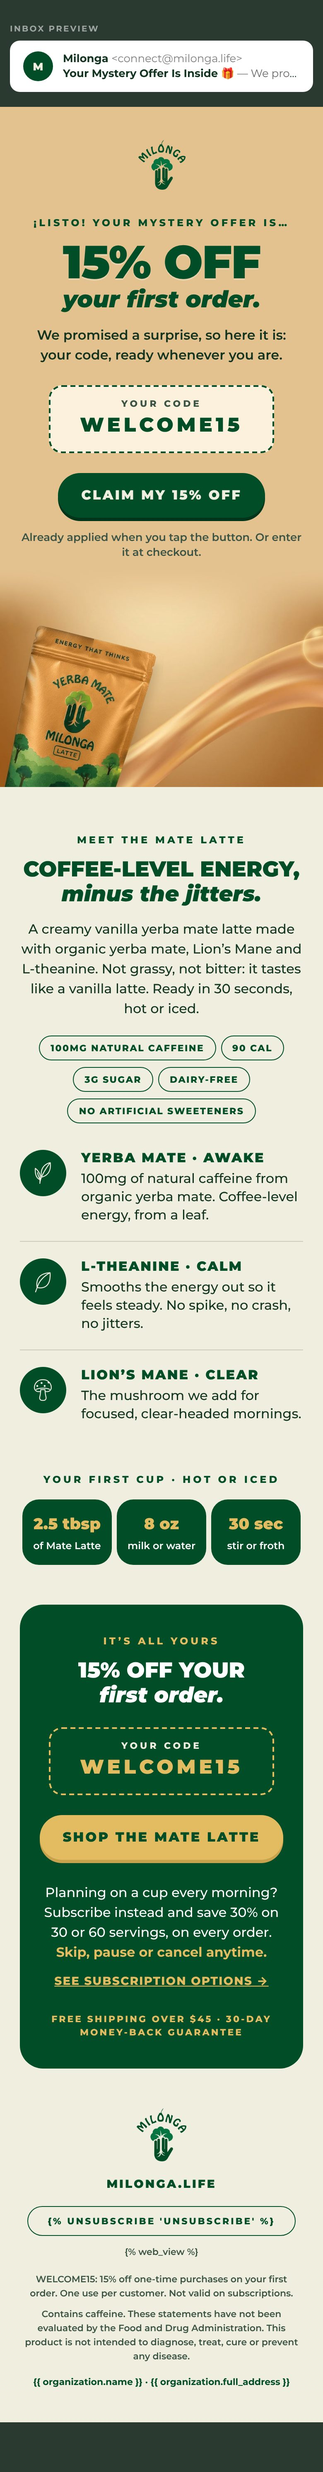
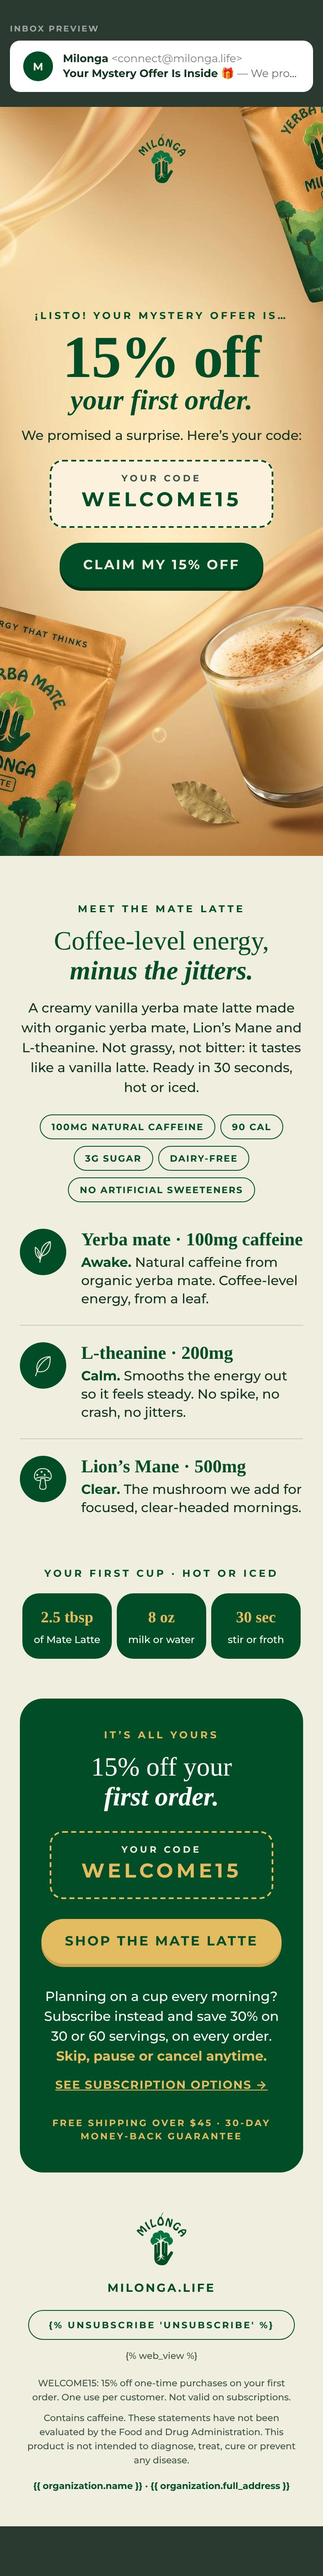
Welcome flow E1: hero background on Klaviyo's CDN, README and renders updated
Claude-Session: https://claude.ai/code/session_01NhEtXPnfeCJfN73SqBkUZ5

diff --git a/email-ds/exports/klaviyo/welcome-e1/welcome-e1.html b/email-ds/exports/klaviyo/welcome-e1/welcome-e1.html
@@ -5,7 +5,7 @@
   Paste the whole file into one Klaviyo HTML block.
 -->
 <style>
-  @import url('https://fonts.googleapis.com/css2?family=Montserrat:ital,wght@0,500;0,600;0,800;0,900;1,800;1,900&display=swap');
+  @import url('https://fonts.googleapis.com/css2?family=Montserrat:wght@500;700&display=swap');
   table { border-collapse:collapse; }
   img { -ms-interpolation-mode:bicubic; }
   a { color:inherit; }
@@ -14,9 +14,10 @@
   @media only screen and (max-width:480px) {
     .wrap { width:100% !important; }
     .pad { padding-left:24px !important; padding-right:24px !important; }
-    .h-hero { font-size:56px !important; line-height:54px !important; }
-    .h-turn { font-size:28px !important; line-height:32px !important; }
-    .h-sec { font-size:26px !important; line-height:30px !important; }
+    .h-hero { font-size:72px !important; line-height:68px !important; }
+    .h-turn { font-size:34px !important; line-height:38px !important; }
+    .h-sec { font-size:32px !important; line-height:36px !important; }
+    .hero-in { padding-left:20px !important; padding-right:20px !important; }
     .code { font-size:24px !important; letter-spacing:4px !important; }
     .btn { padding:19px 28px !important; }
     .card { padding:36px 22px !important; }
@@ -25,7 +26,7 @@
     .step-cap { font-size:12px !important; line-height:15px !important; }
   }
   @media (prefers-color-scheme: dark) {
-    .bg-hero { background-color:#E4C28F !important; }
+    .bg-hero { background-color:#F2D9A6 !important; }
     .bg-page { background-color:#F0EFDF !important; }
     .bg-card { background-color:#004D27 !important; }
   }
@@ -35,31 +36,34 @@
 <table role="presentation" class="wrap" width="600" cellpadding="0" cellspacing="0" border="0" style="width:600px;max-width:600px;">
 
 <!-- ── 1 · THE REVEAL (gold silk, forest type) ───────────────────────── -->
-<tr><td class="pad bg-hero" align="center" bgcolor="#E4C28F" style="background-color:#E4C28F;padding:40px 40px 0;font-family:'Montserrat','Helvetica Neue',Helvetica,Arial,sans-serif;color:#004D27;">
+<tr><td class="bg-hero" align="center" valign="top" height="904" background="https://cdn.klaviyomail.com/company/TwvSnK/images/77f8ca1f-1973-4ad8-a8bd-2133aa45e3c2.jpeg" bgcolor="#F2D9A6" style="height:904px;background-color:#F2D9A6;background-image:url('https://cdn.klaviyomail.com/company/TwvSnK/images/77f8ca1f-1973-4ad8-a8bd-2133aa45e3c2.jpeg');background-size:cover;background-position:center top;background-repeat:no-repeat;padding:0;">
+<!--[if gte mso 9]><v:rect xmlns:v="urn:schemas-microsoft-com:vml" fill="true" stroke="false" style="width:600px;height:904px;"><v:fill type="frame" src="https://cdn.klaviyomail.com/company/TwvSnK/images/77f8ca1f-1973-4ad8-a8bd-2133aa45e3c2.jpeg" color="#F2D9A6" /><v:textbox inset="0,0,0,0"><![endif]-->
+<div class="hero-in" style="padding:32px 40px 0;font-family:'Montserrat','Helvetica Neue',Helvetica,Arial,sans-serif;color:#004D27;text-align:center;">
 <a href="https://milonga.life/?utm_source=klaviyo&amp;utm_medium=email&amp;utm_campaign=welcome_mystery_offer&amp;utm_content=e1_logo" target="_blank"><img src="https://cdn.klaviyomail.com/company/TwvSnK/images/b6a03046-605a-4e87-b22f-a530be1633e3.png" width="57" height="60" alt="Milonga" style="display:block;margin:0 auto;width:57px;height:60px;border:0;"></a>
-<div style="padding-top:32px;font-size:12px;line-height:16px;font-weight:800;letter-spacing:3px;text-transform:uppercase;color:#004D27;">&iexcl;Listo! Your mystery offer is&hellip;</div>
-<div class="h-hero" style="padding-top:12px;font-size:72px;line-height:68px;font-weight:900;letter-spacing:-1px;text-transform:uppercase;color:#004D27;text-shadow:0 2px 0 rgba(255,255,255,.25);">15% off</div>
-<div class="h-turn" style="padding-top:2px;font-size:32px;line-height:38px;font-weight:900;font-style:italic;color:#004D27;">your first order.</div>
-<div style="padding:16px 0 24px;font-size:16px;line-height:24px;font-weight:600;color:#12331F;">We promised a surprise, so here it is: your code, ready whenever you&nbsp;are.</div>
+<div style="height:152px;line-height:152px;font-size:0;">&nbsp;</div>
+<div style="font-size:12px;line-height:16px;font-weight:700;letter-spacing:3px;text-transform:uppercase;color:#004D27;">&iexcl;Listo! Your mystery offer is&hellip;</div>
+<div class="h-hero" style="padding-top:8px;font-family:'Times New Roman',Times,Georgia,serif;font-size:84px;line-height:78px;font-weight:700;letter-spacing:-1px;color:#004D27;">15% off</div>
+<div class="h-turn" style="font-family:'Times New Roman',Times,Georgia,serif;font-size:38px;line-height:44px;font-weight:700;font-style:italic;color:#004D27;">your first order.</div>
+<div style="padding:12px 0 18px;font-size:16px;line-height:22px;font-weight:500;color:#12331F;">We promised a surprise. Here&rsquo;s your&nbsp;code:</div>
 <table role="presentation" cellpadding="0" cellspacing="0" border="0" align="center" style="margin:0 auto;border-collapse:separate;"><tr>
 <td align="center" bgcolor="#FBF1DC" style="background-color:#FBF1DC;border:2px dashed #004D27;border-radius:16px;padding:12px 36px 14px;font-family:'Montserrat','Helvetica Neue',Helvetica,Arial,sans-serif;">
-<div style="font-size:11px;line-height:16px;font-weight:800;letter-spacing:3px;text-transform:uppercase;color:#3B5344;">Your code</div>
-<div class="code" style="font-size:30px;line-height:36px;font-weight:900;letter-spacing:6px;color:#004D27;">WELCOME15</div>
+<div style="font-size:11px;line-height:16px;font-weight:700;letter-spacing:3px;text-transform:uppercase;color:#3B5344;">Your code</div>
+<div class="code" style="font-size:30px;line-height:36px;font-weight:700;letter-spacing:6px;color:#004D27;">WELCOME15</div>
 </td></tr></table>
-<div style="padding-top:24px;"><!--[if mso]>
+<div style="padding-top:18px;"><!--[if mso]>
 <v:roundrect xmlns:v="urn:schemas-microsoft-com:vml" xmlns:w="urn:schemas-microsoft-com:office:word" href="https://milonga.life/discount/WELCOME15?redirect=%2Fproducts%2Fthe-original-mate-latte&amp;utm_source=klaviyo&amp;utm_medium=email&amp;utm_campaign=welcome_mystery_offer&amp;utm_content=e1_hero_button" style="height:56px;v-text-anchor:middle;width:300px;" arcsize="50%" stroke="f" fillcolor="#004D27"><w:anchorlock/><center style="color:#F0EFDF;font-family:Arial,sans-serif;font-size:16px;font-weight:bold;letter-spacing:2px;">Claim my 15% off</center></v:roundrect>
-<![endif]--><!--[if !mso]><!-- --><a href="https://milonga.life/discount/WELCOME15?redirect=%2Fproducts%2Fthe-original-mate-latte&amp;utm_source=klaviyo&amp;utm_medium=email&amp;utm_campaign=welcome_mystery_offer&amp;utm_content=e1_hero_button" target="_blank" class="btn" style="display:inline-block;background-color:#004D27;border-radius:999px;padding:20px 40px;font-family:'Montserrat','Helvetica Neue',Helvetica,Arial,sans-serif;font-size:16px;line-height:16px;font-weight:900;letter-spacing:2px;text-transform:uppercase;color:#F0EFDF;text-decoration:none;box-shadow:0 4px 0 #00351B;">Claim my 15% off</a><!--<![endif]--></div>
-<div style="padding-top:14px;font-size:13px;line-height:18px;font-weight:600;color:#3B5344;">Already applied when you tap the button. Or enter it at checkout.</div>
+<![endif]--><!--[if !mso]><!-- --><a href="https://milonga.life/discount/WELCOME15?redirect=%2Fproducts%2Fthe-original-mate-latte&amp;utm_source=klaviyo&amp;utm_medium=email&amp;utm_campaign=welcome_mystery_offer&amp;utm_content=e1_hero_button" target="_blank" class="btn" style="display:inline-block;background-color:#004D27;border-radius:999px;padding:20px 40px;font-family:'Montserrat','Helvetica Neue',Helvetica,Arial,sans-serif;font-size:16px;line-height:16px;font-weight:700;letter-spacing:2px;text-transform:uppercase;color:#F0EFDF;text-decoration:none;box-shadow:0 4px 0 #00351B;">Claim my 15% off</a><!--<![endif]--></div>
+</div>
+<!--[if gte mso 9]></v:textbox></v:rect><![endif]-->
 </td></tr>
-<tr><td class="bg-hero" bgcolor="#E4C28F" style="background-color:#E4C28F;padding:8px 0 0;font-size:0;line-height:0;"><a href="https://milonga.life/discount/WELCOME15?redirect=%2Fproducts%2Fthe-original-mate-latte&amp;utm_source=klaviyo&amp;utm_medium=email&amp;utm_campaign=welcome_mystery_offer&amp;utm_content=e1_hero_image" target="_blank"><img src="https://cdn.klaviyomail.com/company/TwvSnK/images/4a392523-8fed-4278-bf4b-9b27664f2c6b.jpeg" width="600" alt="A pouch of Milonga Mate Latte on swirls of gold silk." style="display:block;width:100%;max-width:600px;height:auto;border:0;"></a></td></tr>
 
 <!-- ── 2 · WHAT YOU JUST UNLOCKED (beige, forest type) ──────────────── -->
 <tr><td class="pad bg-page" align="center" bgcolor="#F0EFDF" style="background-color:#F0EFDF;padding:56px 48px 0;font-family:'Montserrat','Helvetica Neue',Helvetica,Arial,sans-serif;">
-<div style="font-size:12px;line-height:16px;font-weight:800;letter-spacing:3px;text-transform:uppercase;color:#004D27;">Meet the Mate Latte</div>
-<div class="h-sec" style="padding-top:12px;font-size:32px;line-height:36px;font-weight:900;text-transform:uppercase;color:#004D27;">Coffee-level energy,</div>
-<div class="h-sec" style="font-size:32px;line-height:36px;font-weight:900;font-style:italic;color:#004D27;">minus the jitters.</div>
+<div style="font-size:12px;line-height:16px;font-weight:700;letter-spacing:3px;text-transform:uppercase;color:#004D27;">Meet the Mate Latte</div>
+<div class="h-sec" style="padding-top:12px;font-family:'Times New Roman',Times,Georgia,serif;font-size:40px;line-height:44px;font-weight:400;color:#004D27;">Coffee-level energy,</div>
+<div class="h-sec" style="font-family:'Times New Roman',Times,Georgia,serif;font-size:40px;line-height:44px;font-weight:700;font-style:italic;color:#004D27;">minus the jitters.</div>
 <div style="padding-top:16px;font-size:16px;line-height:24px;font-weight:500;color:#12331F;">A creamy vanilla yerba mate latte made with organic yerba mate, Lion&rsquo;s Mane and L-theanine. Not grassy, not bitter: it tastes like a vanilla latte. Ready in 30 seconds, hot or&nbsp;iced.</div>
-<div style="padding-top:20px;font-size:0;line-height:0;"><span style="display:inline-block;margin:0 3px 8px;border:1.5px solid #004D27;border-radius:999px;padding:7px 13px;font-family:'Montserrat','Helvetica Neue',Helvetica,Arial,sans-serif;font-size:11px;line-height:14px;font-weight:800;letter-spacing:1.2px;text-transform:uppercase;color:#004D27;white-space:nowrap;">100mg natural caffeine</span><span style="display:inline-block;margin:0 3px 8px;border:1.5px solid #004D27;border-radius:999px;padding:7px 13px;font-family:'Montserrat','Helvetica Neue',Helvetica,Arial,sans-serif;font-size:11px;line-height:14px;font-weight:800;letter-spacing:1.2px;text-transform:uppercase;color:#004D27;white-space:nowrap;">90 cal</span><span style="display:inline-block;margin:0 3px 8px;border:1.5px solid #004D27;border-radius:999px;padding:7px 13px;font-family:'Montserrat','Helvetica Neue',Helvetica,Arial,sans-serif;font-size:11px;line-height:14px;font-weight:800;letter-spacing:1.2px;text-transform:uppercase;color:#004D27;white-space:nowrap;">3g sugar</span><span style="display:inline-block;margin:0 3px 8px;border:1.5px solid #004D27;border-radius:999px;padding:7px 13px;font-family:'Montserrat','Helvetica Neue',Helvetica,Arial,sans-serif;font-size:11px;line-height:14px;font-weight:800;letter-spacing:1.2px;text-transform:uppercase;color:#004D27;white-space:nowrap;">Dairy-free</span><span style="display:inline-block;margin:0 3px 8px;border:1.5px solid #004D27;border-radius:999px;padding:7px 13px;font-family:'Montserrat','Helvetica Neue',Helvetica,Arial,sans-serif;font-size:11px;line-height:14px;font-weight:800;letter-spacing:1.2px;text-transform:uppercase;color:#004D27;white-space:nowrap;">No artificial sweeteners</span></div>
+<div style="padding-top:20px;font-size:0;line-height:0;"><span style="display:inline-block;margin:0 3px 8px;border:1.5px solid #004D27;border-radius:999px;padding:7px 13px;font-family:'Montserrat','Helvetica Neue',Helvetica,Arial,sans-serif;font-size:11px;line-height:14px;font-weight:700;letter-spacing:1.2px;text-transform:uppercase;color:#004D27;white-space:nowrap;">100mg natural caffeine</span><span style="display:inline-block;margin:0 3px 8px;border:1.5px solid #004D27;border-radius:999px;padding:7px 13px;font-family:'Montserrat','Helvetica Neue',Helvetica,Arial,sans-serif;font-size:11px;line-height:14px;font-weight:700;letter-spacing:1.2px;text-transform:uppercase;color:#004D27;white-space:nowrap;">90 cal</span><span style="display:inline-block;margin:0 3px 8px;border:1.5px solid #004D27;border-radius:999px;padding:7px 13px;font-family:'Montserrat','Helvetica Neue',Helvetica,Arial,sans-serif;font-size:11px;line-height:14px;font-weight:700;letter-spacing:1.2px;text-transform:uppercase;color:#004D27;white-space:nowrap;">3g sugar</span><span style="display:inline-block;margin:0 3px 8px;border:1.5px solid #004D27;border-radius:999px;padding:7px 13px;font-family:'Montserrat','Helvetica Neue',Helvetica,Arial,sans-serif;font-size:11px;line-height:14px;font-weight:700;letter-spacing:1.2px;text-transform:uppercase;color:#004D27;white-space:nowrap;">Dairy-free</span><span style="display:inline-block;margin:0 3px 8px;border:1.5px solid #004D27;border-radius:999px;padding:7px 13px;font-family:'Montserrat','Helvetica Neue',Helvetica,Arial,sans-serif;font-size:11px;line-height:14px;font-weight:700;letter-spacing:1.2px;text-transform:uppercase;color:#004D27;white-space:nowrap;">No artificial sweeteners</span></div>
 </td></tr>
 <tr><td class="pad bg-page" bgcolor="#F0EFDF" style="background-color:#F0EFDF;padding:24px 48px 0;">
 <table role="presentation" width="100%" cellpadding="0" cellspacing="0" border="0">
@@ -67,24 +71,24 @@
 <table role="presentation" width="100%" cellpadding="0" cellspacing="0" border="0"><tr>
 <td width="56" valign="top" style="width:56px;"><img src="https://cdn.klaviyomail.com/company/TwvSnK/images/d6e41362-a8e8-4641-ab29-ffc4bff9a072.png" width="56" height="56" alt="Yerba mate" style="display:block;width:56px;height:56px;border:0;"></td>
 <td valign="middle" style="padding-left:18px;font-family:'Montserrat','Helvetica Neue',Helvetica,Arial,sans-serif;">
-<div style="font-size:16px;line-height:20px;font-weight:900;letter-spacing:1.5px;text-transform:uppercase;color:#004D27;">Yerba mate · Awake</div>
-<div style="padding-top:4px;font-size:16px;line-height:22px;font-weight:500;color:#12331F;">100mg of natural caffeine from organic yerba mate. Coffee-level energy, from a&nbsp;leaf.</div>
+<div style="font-family:'Times New Roman',Times,Georgia,serif;font-size:22px;line-height:26px;font-weight:700;color:#004D27;">Yerba mate · 100mg caffeine</div>
+<div style="padding-top:4px;font-size:16px;line-height:22px;font-weight:500;color:#12331F;"><strong style="font-weight:700;color:#004D27;">Awake.</strong> Natural caffeine from organic yerba mate. Coffee-level energy, from a&nbsp;leaf.</div>
 </td></tr></table>
 </td></tr>
 <tr><td style="padding:20px 0 20px;border-bottom:1px solid #CFCDB8;">
 <table role="presentation" width="100%" cellpadding="0" cellspacing="0" border="0"><tr>
 <td width="56" valign="top" style="width:56px;"><img src="https://cdn.klaviyomail.com/company/TwvSnK/images/c3c9bcd8-65f0-4e23-a653-fb47cf9fbecf.png" width="56" height="56" alt="L-theanine" style="display:block;width:56px;height:56px;border:0;"></td>
 <td valign="middle" style="padding-left:18px;font-family:'Montserrat','Helvetica Neue',Helvetica,Arial,sans-serif;">
-<div style="font-size:16px;line-height:20px;font-weight:900;letter-spacing:1.5px;text-transform:uppercase;color:#004D27;">L-theanine · Calm</div>
-<div style="padding-top:4px;font-size:16px;line-height:22px;font-weight:500;color:#12331F;">Smooths the energy out so it feels steady. No spike, no crash, no&nbsp;jitters.</div>
+<div style="font-family:'Times New Roman',Times,Georgia,serif;font-size:22px;line-height:26px;font-weight:700;color:#004D27;">L-theanine · 200mg</div>
+<div style="padding-top:4px;font-size:16px;line-height:22px;font-weight:500;color:#12331F;"><strong style="font-weight:700;color:#004D27;">Calm.</strong> Smooths the energy out so it feels steady. No spike, no crash, no&nbsp;jitters.</div>
 </td></tr></table>
 </td></tr>
 <tr><td style="padding:20px 0 20px;">
 <table role="presentation" width="100%" cellpadding="0" cellspacing="0" border="0"><tr>
 <td width="56" valign="top" style="width:56px;"><img src="https://cdn.klaviyomail.com/company/TwvSnK/images/25003d52-2d57-422f-8a7f-84335a8de13b.png" width="56" height="56" alt="Lion&rsquo;s Mane" style="display:block;width:56px;height:56px;border:0;"></td>
 <td valign="middle" style="padding-left:18px;font-family:'Montserrat','Helvetica Neue',Helvetica,Arial,sans-serif;">
-<div style="font-size:16px;line-height:20px;font-weight:900;letter-spacing:1.5px;text-transform:uppercase;color:#004D27;">Lion&rsquo;s Mane · Clear</div>
-<div style="padding-top:4px;font-size:16px;line-height:22px;font-weight:500;color:#12331F;">The mushroom we add for focused, clear-headed&nbsp;mornings.</div>
+<div style="font-family:'Times New Roman',Times,Georgia,serif;font-size:22px;line-height:26px;font-weight:700;color:#004D27;">Lion&rsquo;s Mane · 500mg</div>
+<div style="padding-top:4px;font-size:16px;line-height:22px;font-weight:500;color:#12331F;"><strong style="font-weight:700;color:#004D27;">Clear.</strong> The mushroom we add for focused, clear-headed&nbsp;mornings.</div>
 </td></tr></table>
 </td></tr>
 </table>
@@ -92,22 +96,22 @@
 
 <!-- your first cup: 8 oz, always -->
 <tr><td class="pad bg-page" align="center" bgcolor="#F0EFDF" style="background-color:#F0EFDF;padding:40px 40px 0;font-family:'Montserrat','Helvetica Neue',Helvetica,Arial,sans-serif;">
-<div style="font-size:12px;line-height:16px;font-weight:800;letter-spacing:3px;text-transform:uppercase;color:#004D27;">Your first cup &middot; hot or iced</div>
+<div style="font-size:12px;line-height:16px;font-weight:700;letter-spacing:3px;text-transform:uppercase;color:#004D27;">Your first cup &middot; hot or iced</div>
 <div style="padding:16px 0 0;"><table role="presentation" width="100%" cellpadding="0" cellspacing="0" border="0"><tr>
 <td class="step" width="33%" valign="top" align="center" style="width:33%;padding:0 0px;">
 <table role="presentation" width="100%" cellpadding="0" cellspacing="0" border="0"><tr><td align="center" bgcolor="#004D27" style="background-color:#004D27;border-radius:20px;padding:18px 8px 16px;font-family:'Montserrat','Helvetica Neue',Helvetica,Arial,sans-serif;">
-<div class="step-big" style="font-size:26px;line-height:32px;font-weight:900;color:#E3BC62;white-space:nowrap;">2.5 tbsp</div>
-<div class="step-cap" style="padding-top:6px;font-size:13px;line-height:17px;font-weight:600;color:#FFFFFF;">of Mate Latte</div>
+<div class="step-big" style="font-family:'Times New Roman',Times,Georgia,serif;font-size:30px;line-height:34px;font-weight:700;color:#E3BC62;white-space:nowrap;">2.5 tbsp</div>
+<div class="step-cap" style="padding-top:6px;font-size:13px;line-height:17px;font-weight:500;color:#FFFFFF;">of Mate Latte</div>
 </td></tr></table></td>
 <td class="step" width="33%" valign="top" align="center" style="width:33%;padding:0 6px;">
 <table role="presentation" width="100%" cellpadding="0" cellspacing="0" border="0"><tr><td align="center" bgcolor="#004D27" style="background-color:#004D27;border-radius:20px;padding:18px 8px 16px;font-family:'Montserrat','Helvetica Neue',Helvetica,Arial,sans-serif;">
-<div class="step-big" style="font-size:26px;line-height:32px;font-weight:900;color:#E3BC62;white-space:nowrap;">8 oz</div>
-<div class="step-cap" style="padding-top:6px;font-size:13px;line-height:17px;font-weight:600;color:#FFFFFF;">milk or water</div>
+<div class="step-big" style="font-family:'Times New Roman',Times,Georgia,serif;font-size:30px;line-height:34px;font-weight:700;color:#E3BC62;white-space:nowrap;">8 oz</div>
+<div class="step-cap" style="padding-top:6px;font-size:13px;line-height:17px;font-weight:500;color:#FFFFFF;">milk or water</div>
 </td></tr></table></td>
 <td class="step" width="33%" valign="top" align="center" style="width:33%;padding:0 0px;">
 <table role="presentation" width="100%" cellpadding="0" cellspacing="0" border="0"><tr><td align="center" bgcolor="#004D27" style="background-color:#004D27;border-radius:20px;padding:18px 8px 16px;font-family:'Montserrat','Helvetica Neue',Helvetica,Arial,sans-serif;">
-<div class="step-big" style="font-size:26px;line-height:32px;font-weight:900;color:#E3BC62;white-space:nowrap;">30 sec</div>
-<div class="step-cap" style="padding-top:6px;font-size:13px;line-height:17px;font-weight:600;color:#FFFFFF;">stir or froth</div>
+<div class="step-big" style="font-family:'Times New Roman',Times,Georgia,serif;font-size:30px;line-height:34px;font-weight:700;color:#E3BC62;white-space:nowrap;">30 sec</div>
+<div class="step-cap" style="padding-top:6px;font-size:13px;line-height:17px;font-weight:500;color:#FFFFFF;">stir or froth</div>
 </td></tr></table></td>
 </tr></table></div>
 </td></tr>
@@ -116,31 +120,31 @@
 <tr><td class="pad bg-page" bgcolor="#F0EFDF" style="background-color:#F0EFDF;padding:48px 24px 0;">
 <table role="presentation" width="100%" cellpadding="0" cellspacing="0" border="0"><tr>
 <td class="card bg-card" align="center" bgcolor="#004D27" style="background-color:#004D27;border-radius:28px;padding:44px 40px 40px;font-family:'Montserrat','Helvetica Neue',Helvetica,Arial,sans-serif;">
-<div style="font-size:12px;line-height:16px;font-weight:800;letter-spacing:3px;text-transform:uppercase;color:#E3BC62;">It&rsquo;s all yours</div>
-<div class="h-sec" style="padding-top:12px;font-size:32px;line-height:36px;font-weight:900;text-transform:uppercase;color:#FFFFFF;">15% off your</div>
-<div class="h-sec" style="font-size:32px;line-height:36px;font-weight:900;font-style:italic;color:#FFFFFF;">first order.</div>
+<div style="font-size:12px;line-height:16px;font-weight:700;letter-spacing:3px;text-transform:uppercase;color:#E3BC62;">It&rsquo;s all yours</div>
+<div class="h-sec" style="padding-top:12px;font-family:'Times New Roman',Times,Georgia,serif;font-size:40px;line-height:44px;font-weight:400;color:#FFFFFF;">15% off your</div>
+<div class="h-sec" style="font-family:'Times New Roman',Times,Georgia,serif;font-size:40px;line-height:44px;font-weight:700;font-style:italic;color:#FFFFFF;">first order.</div>
 <div style="padding:24px 0;"><table role="presentation" cellpadding="0" cellspacing="0" border="0" align="center" style="margin:0 auto;border-collapse:separate;"><tr>
 <td align="center" bgcolor="#004D27" style="background-color:#004D27;border:2px dashed #E3BC62;border-radius:16px;padding:12px 36px 14px;font-family:'Montserrat','Helvetica Neue',Helvetica,Arial,sans-serif;">
-<div style="font-size:11px;line-height:16px;font-weight:800;letter-spacing:3px;text-transform:uppercase;color:#F0EFDF;">Your code</div>
-<div class="code" style="font-size:30px;line-height:36px;font-weight:900;letter-spacing:6px;color:#E3BC62;">WELCOME15</div>
+<div style="font-size:11px;line-height:16px;font-weight:700;letter-spacing:3px;text-transform:uppercase;color:#F0EFDF;">Your code</div>
+<div class="code" style="font-size:30px;line-height:36px;font-weight:700;letter-spacing:6px;color:#E3BC62;">WELCOME15</div>
 </td></tr></table></div>
 <!--[if mso]>
 <v:roundrect xmlns:v="urn:schemas-microsoft-com:vml" xmlns:w="urn:schemas-microsoft-com:office:word" href="https://milonga.life/discount/WELCOME15?redirect=%2Fproducts%2Fthe-original-mate-latte&amp;utm_source=klaviyo&amp;utm_medium=email&amp;utm_campaign=welcome_mystery_offer&amp;utm_content=e1_closing_button" style="height:56px;v-text-anchor:middle;width:300px;" arcsize="50%" stroke="f" fillcolor="#E3BC62"><w:anchorlock/><center style="color:#004D27;font-family:Arial,sans-serif;font-size:16px;font-weight:bold;letter-spacing:2px;">Shop the Mate Latte</center></v:roundrect>
-<![endif]--><!--[if !mso]><!-- --><a href="https://milonga.life/discount/WELCOME15?redirect=%2Fproducts%2Fthe-original-mate-latte&amp;utm_source=klaviyo&amp;utm_medium=email&amp;utm_campaign=welcome_mystery_offer&amp;utm_content=e1_closing_button" target="_blank" class="btn" style="display:inline-block;background-color:#E3BC62;border-radius:999px;padding:20px 40px;font-family:'Montserrat','Helvetica Neue',Helvetica,Arial,sans-serif;font-size:16px;line-height:16px;font-weight:900;letter-spacing:2px;text-transform:uppercase;color:#004D27;text-decoration:none;box-shadow:0 4px 0 #C9A24E;">Shop the Mate Latte</a><!--<![endif]-->
+<![endif]--><!--[if !mso]><!-- --><a href="https://milonga.life/discount/WELCOME15?redirect=%2Fproducts%2Fthe-original-mate-latte&amp;utm_source=klaviyo&amp;utm_medium=email&amp;utm_campaign=welcome_mystery_offer&amp;utm_content=e1_closing_button" target="_blank" class="btn" style="display:inline-block;background-color:#E3BC62;border-radius:999px;padding:20px 40px;font-family:'Montserrat','Helvetica Neue',Helvetica,Arial,sans-serif;font-size:16px;line-height:16px;font-weight:700;letter-spacing:2px;text-transform:uppercase;color:#004D27;text-decoration:none;box-shadow:0 4px 0 #C9A24E;">Shop the Mate Latte</a><!--<![endif]-->
 <div style="padding-top:28px;font-size:16px;line-height:24px;font-weight:500;color:#FFFFFF;">Planning on a cup every morning? Subscribe instead and save 30% on 30 or 60 servings, on every order. <strong style="color:#E3BC62;">Skip, pause or cancel&nbsp;anytime.</strong></div>
-<div style="padding-top:12px;font-size:14px;line-height:20px;font-weight:800;letter-spacing:1px;text-transform:uppercase;"><a href="https://milonga.life/products/the-original-mate-latte?utm_source=klaviyo&amp;utm_medium=email&amp;utm_campaign=welcome_mystery_offer&amp;utm_content=e1_subscribe_link" target="_blank" style="color:#E3BC62;text-decoration:underline;">See subscription options →</a></div>
-<div style="padding-top:28px;font-size:11px;line-height:16px;font-weight:800;letter-spacing:2px;text-transform:uppercase;color:#E3BC62;">Free shipping over $45 &middot; 30-day money-back guarantee</div>
+<div style="padding-top:12px;font-size:14px;line-height:20px;font-weight:700;letter-spacing:1px;text-transform:uppercase;"><a href="https://milonga.life/products/the-original-mate-latte?utm_source=klaviyo&amp;utm_medium=email&amp;utm_campaign=welcome_mystery_offer&amp;utm_content=e1_subscribe_link" target="_blank" style="color:#E3BC62;text-decoration:underline;">See subscription options →</a></div>
+<div style="padding-top:28px;font-size:11px;line-height:16px;font-weight:700;letter-spacing:2px;text-transform:uppercase;color:#E3BC62;">Free shipping over $45 &middot; 30-day money-back guarantee</div>
 </td></tr></table>
 </td></tr>
 
 <!-- ── FOOTER ─────────────────────────────────────────────────────── -->
 <tr><td class="bg-page" align="center" bgcolor="#F0EFDF" style="background-color:#F0EFDF;padding:48px 30px 40px;font-family:'Montserrat','Helvetica Neue',Helvetica,Arial,sans-serif;color:#004D27;">
 <a href="https://milonga.life/?utm_source=klaviyo&amp;utm_medium=email&amp;utm_campaign=welcome_mystery_offer&amp;utm_content=e1_logo" target="_blank"><img src="https://cdn.klaviyomail.com/company/TwvSnK/images/0e781634-6907-42f6-b101-3c2c15371a99.png" width="61" height="64" alt="Milonga" style="display:block;margin:0 auto;height:64px;width:auto;border:0;"></a>
-<div style="padding-top:18px;font-size:14px;font-weight:900;letter-spacing:2px;text-transform:uppercase;"><a href="https://milonga.life/?utm_source=klaviyo&amp;utm_medium=email&amp;utm_campaign=welcome_mystery_offer&amp;utm_content=e1_logo" target="_blank" style="color:#004D27;text-decoration:none;">milonga.life</a></div>
-<table role="presentation" cellpadding="0" cellspacing="0" border="0" align="center" style="margin:18px auto 0;border-collapse:separate;"><tr><td class="unsub-pill" align="center" style="border:1.5px solid #004D27;border-radius:999px;padding:10px 24px;font-family:'Montserrat','Helvetica Neue',Helvetica,Arial,sans-serif;font-size:11px;font-weight:800;letter-spacing:2px;text-transform:uppercase;color:#004D27;">{% unsubscribe 'Unsubscribe' %}</td></tr></table>
-<div class="web-view-line" style="padding-top:12px;font-size:11px;font-weight:600;color:#3B5344;">{% web_view %}</div>
-<div style="padding-top:18px;font-size:11px;line-height:1.55;font-weight:600;color:#3B5344;">WELCOME15: 15% off one-time purchases on your first order. One use per customer. Not valid on subscriptions.</div>
-<div style="padding-top:8px;font-size:11px;line-height:1.55;font-weight:600;color:#3B5344;">Contains caffeine. These statements have not been evaluated by the Food and Drug Administration. This product is not intended to diagnose, treat, cure or prevent any disease.</div>
+<div style="padding-top:18px;font-size:14px;font-weight:700;letter-spacing:2px;text-transform:uppercase;"><a href="https://milonga.life/?utm_source=klaviyo&amp;utm_medium=email&amp;utm_campaign=welcome_mystery_offer&amp;utm_content=e1_logo" target="_blank" style="color:#004D27;text-decoration:none;">milonga.life</a></div>
+<table role="presentation" cellpadding="0" cellspacing="0" border="0" align="center" style="margin:18px auto 0;border-collapse:separate;"><tr><td class="unsub-pill" align="center" style="border:1.5px solid #004D27;border-radius:999px;padding:10px 24px;font-family:'Montserrat','Helvetica Neue',Helvetica,Arial,sans-serif;font-size:11px;font-weight:700;letter-spacing:2px;text-transform:uppercase;color:#004D27;">{% unsubscribe 'Unsubscribe' %}</td></tr></table>
+<div class="web-view-line" style="padding-top:12px;font-size:11px;font-weight:500;color:#3B5344;">{% web_view %}</div>
+<div style="padding-top:18px;font-size:11px;line-height:1.55;font-weight:500;color:#3B5344;">WELCOME15: 15% off one-time purchases on your first order. One use per customer. Not valid on subscriptions.</div>
+<div style="padding-top:8px;font-size:11px;line-height:1.55;font-weight:500;color:#3B5344;">Contains caffeine. These statements have not been evaluated by the Food and Drug Administration. This product is not intended to diagnose, treat, cure or prevent any disease.</div>
 <div style="padding-top:14px;font-size:11px;line-height:1.55;font-weight:700;color:#004D27;">{{ organization.name }} &middot; {{ organization.full_address }}</div>
 </td></tr>
 
